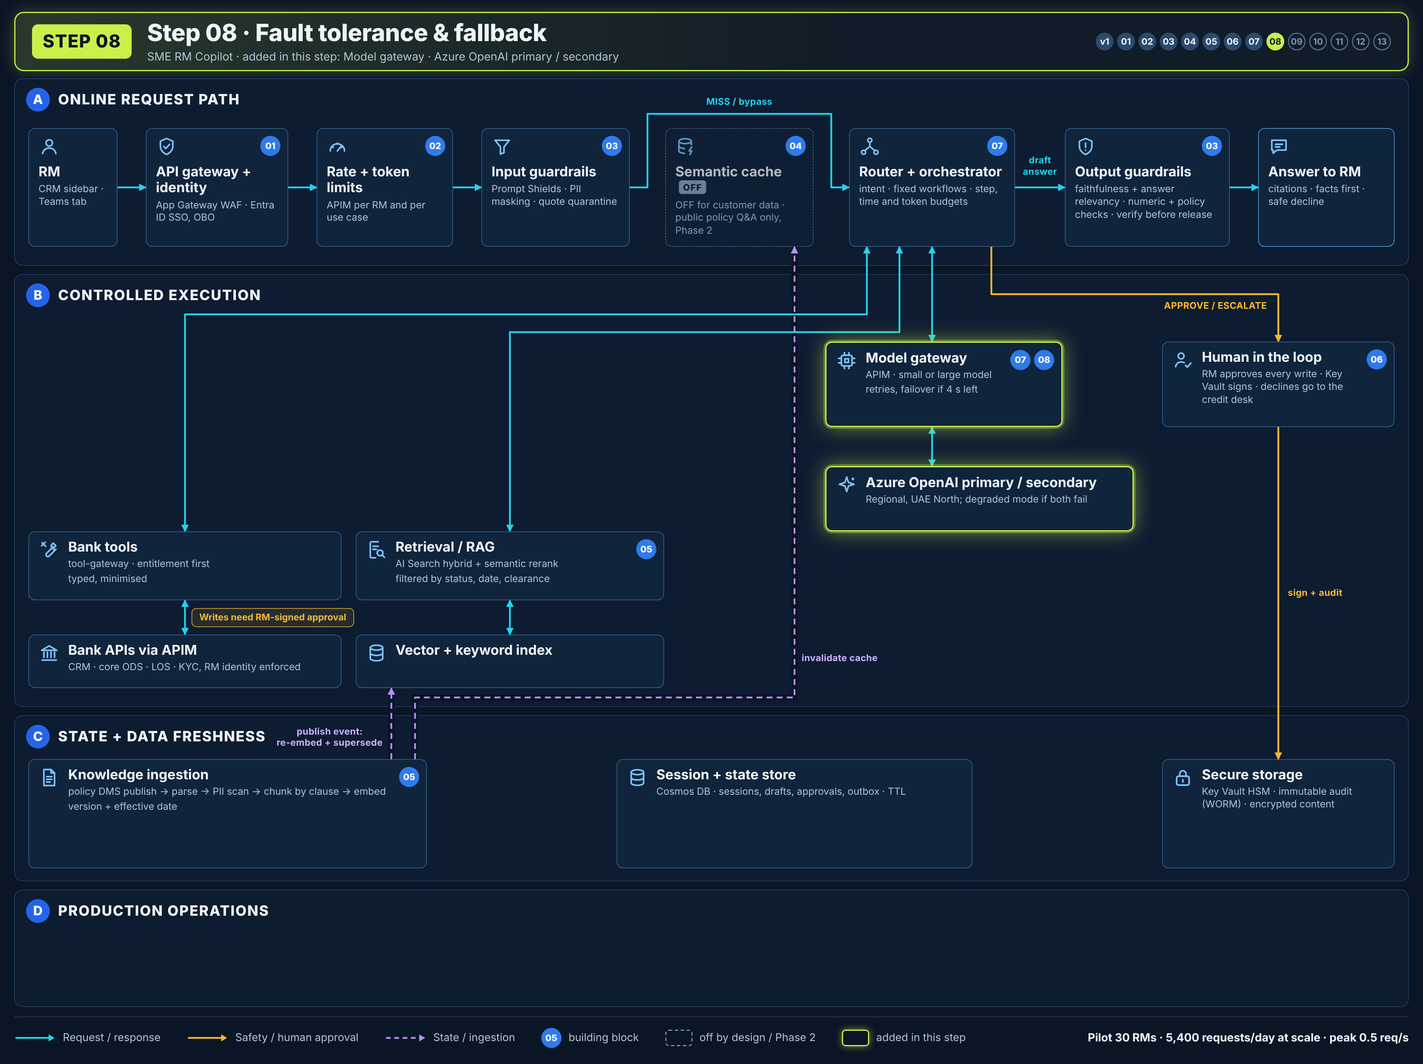
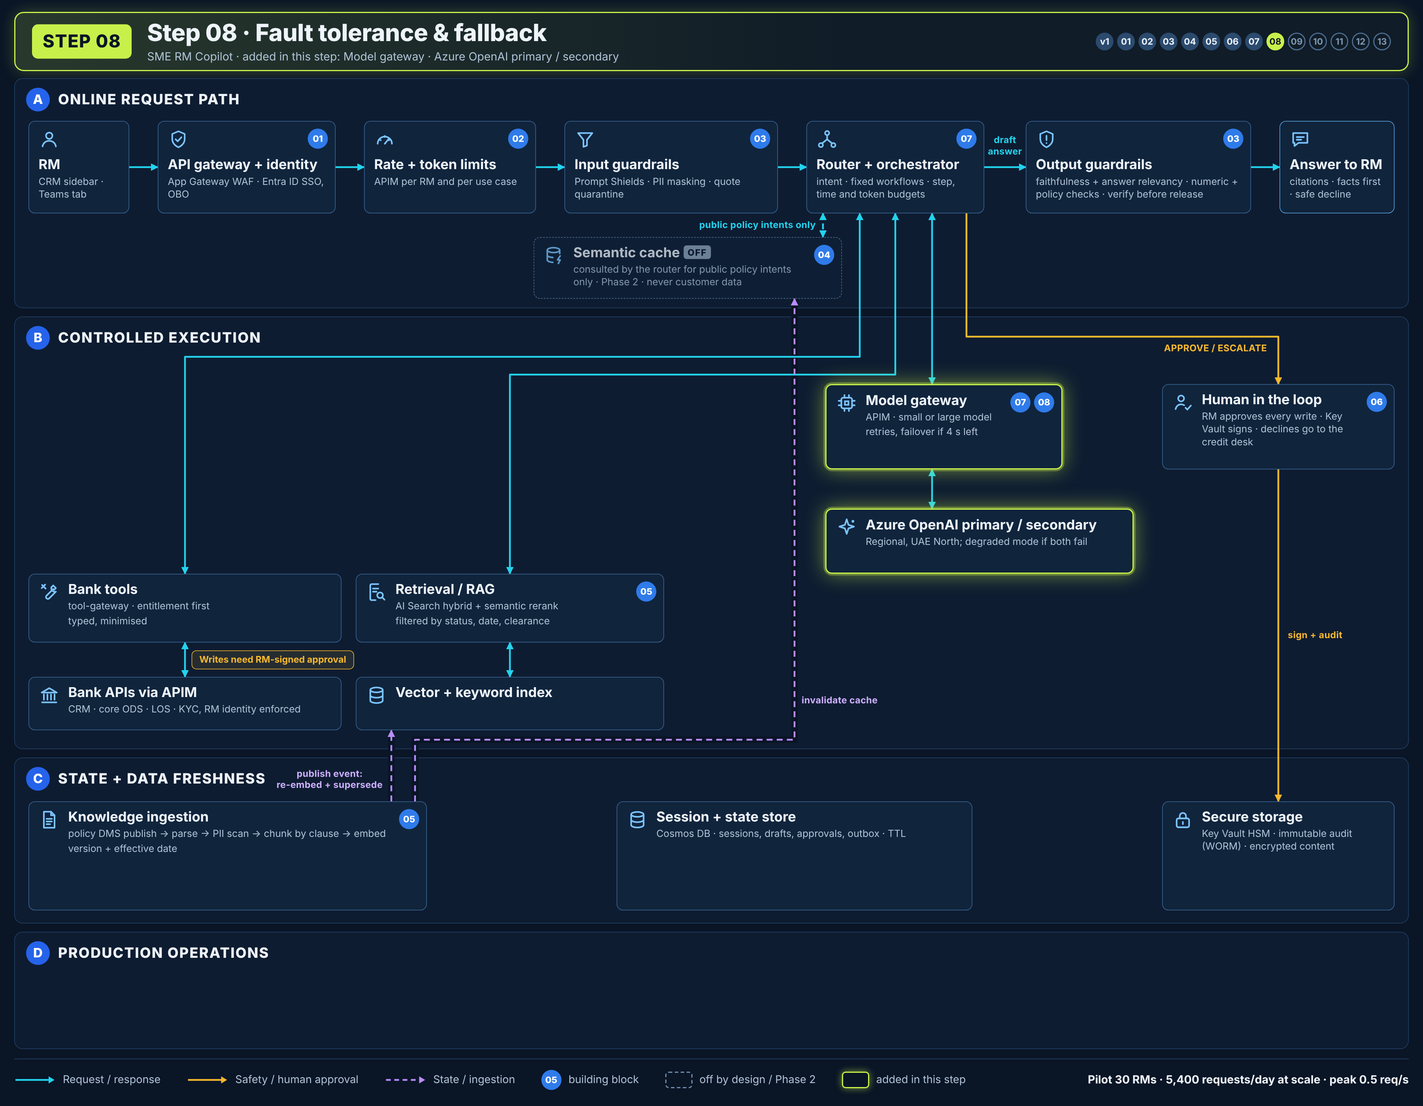
Diagram: supervisor directly after input guardrails; semantic cache beside the router for public policy intents only
Claude-Session: https://claude.ai/code/session_017mnFTtgPUTPw2EMPKevzKD

diff --git a/docs/architecture/diagrams/system-design/complete-architecture.html b/docs/architecture/diagrams/system-design/complete-architecture.html
@@ -3,9 +3,9 @@
 <head>
 <meta charset="utf-8">
 <title>Complete architecture</title>
-<!-- SME RM Copilot (fictional, unbranded bank) on Azure UAE North, drawn in the four-lane "complete architecture"
-     format of an AI system design guide: A online request path, B controlled execution, C state + data freshness,
-     D production operations. Badge numbers on boxes are the guide's 11 building blocks plus two from plan v2.6:
+<!-- SME RM Copilot (fictional, unbranded bank) on Azure UAE North, drawn as a four-lane "complete architecture":
+     A online request path, B controlled execution, C state + data freshness,
+     D production operations. Badge numbers on boxes are 11 core building blocks plus two from plan v2.6:
      12 agent identity + MCP gateway (plan §3.7) and 13 memory (plan §3.8). Plan v2.7 (§3.9): block 11 is evaluation in
      four tiers (runtime gates incl. the pre-generation retrieval gate, online sampled RAGAS, scheduled, release gate).
      Every box, arrow, pill and label comes from the SPEC array below and carries a `step`:
@@ -23,7 +23,7 @@
 * { box-sizing: border-box; margin: 0; padding: 0; }
 html, body { background: var(--bg); }
 body { font-family: Inter, "Segoe UI", Arial, sans-serif; color: var(--ink); }
-#canvas { position: relative; width: 2400px; height: 1794px; background: var(--canvas); overflow: hidden; }
+#canvas { position: relative; width: 2400px; height: 1866px; background: var(--canvas); overflow: hidden; }
 
 /* header (complete view) */
 #hdr { position: absolute; left: 24px; top: 22px; width: 2352px; height: 96px; }
@@ -95,7 +95,7 @@ body { font-family: Inter, "Segoe UI", Arial, sans-serif; color: var(--ink); }
 svg#wires { position: absolute; left: 0; top: 0; pointer-events: none; }
 
 /* legend */
-#legend { position: absolute; left: 24px; top: 1714px; width: 2352px; height: 64px; display: flex; align-items: center; gap: 44px; font-size: 18px; color: var(--muted); border-top: 1.5px solid var(--lane-line); padding-top: 6px; }
+#legend { position: absolute; left: 24px; top: 1786px; width: 2352px; height: 64px; display: flex; align-items: center; gap: 44px; font-size: 18px; color: var(--muted); border-top: 1.5px solid var(--lane-line); padding-top: 6px; }
 #legend .it { display: flex; align-items: center; gap: 12px; white-space: nowrap; }
 #legend .dashbox { width: 46px; height: 28px; border: 2px dashed #6F8DAE; border-radius: 6px; }
 #legend .hibox { width: 46px; height: 28px; border: 2.5px solid var(--hi); border-radius: 6px; box-shadow: 0 0 12px rgba(200,240,74,.6); }
@@ -159,31 +159,34 @@ svg#wires { position: absolute; left: 0; top: 0; pointer-events: none; }
 
 <script>
 // ---------- geometry (one place) ----------
-const W = 2400, H = 1794, LAST = 13;
+const W = 2400, H = 1866, LAST = 13;
+const SH0 = 72;                                        // lanes B..D sit this much lower to give lane A room for the cache side box
 const LANES = [
-  { k: 'A', name: 'ONLINE REQUEST PATH',     y: 132, h: 316 },
-  { k: 'B', name: 'CONTROLLED EXECUTION',    y: 462, h: 730 },
-  { k: 'C', name: 'STATE + DATA FRESHNESS',  y: 1206, h: 280 },
-  { k: 'D', name: 'PRODUCTION OPERATIONS',   y: 1500, h: 198 },
+  { k: 'A', name: 'ONLINE REQUEST PATH',     y: 132, h: 316 + SH0 },
+  { k: 'B', name: 'CONTROLLED EXECUTION',    y: 462 + SH0, h: 730 },
+  { k: 'C', name: 'STATE + DATA FRESHNESS',  y: 1206 + SH0, h: 280 },
+  { k: 'D', name: 'PRODUCTION OPERATIONS',   y: 1500 + SH0, h: 198 },
 ];
-const AY = 216, AH = 200, AM = AY + AH / 2;          // lane A boxes, arrow height
-const BYP = AY - 24;                                   // cache bypass line
-const F1 = 496;                                        // approve / escalate bus (right of the lane B heading)
-const BUS = 544;                                       // supervisor hand-off bus (below the lane B heading)
-const VB1 = 530, VB2 = 560;                            // v1 .. step 11: router -> bank tools / RAG buses (above the model gateway)
-const BY = 576, BH = 144;                              // model gateway, human in the loop
-const OY = 786, OH = 110;                              // Azure OpenAI
-const AGY = 572, AGH = 108;                            // specialist agents row (step 12)
-const MGY = 760, MGH = 84;                             // MCP gateway (step 12)
-const SY = 896, SH = 116;                              // MCP servers row (step 12); v1 RAG + tools before that
-const LY = 1070, LH = 90;                              // index + bank APIs row
-const YINV = 1176;                                     // cache invalidate line, under the lane B boxes
-const CY = 1280, CH = 184;                             // lane C boxes
-const DY = 1572, DH = 104;                             // lane D boxes
+const AY = 204, AH = 156, AM = AY + AH / 2;          // lane A main-path boxes, arrow height
+const KY = AY + AH + 40, KH = 104;                     // semantic cache side box, below the router (step 4)
+const F1 = 496 + SH0;                                  // approve / escalate bus (right of the lane B heading)
+const BUS = 544 + SH0;                                 // supervisor hand-off bus (below the lane B heading)
+const VB1 = 530 + SH0, VB2 = 560 + SH0;                // v1 .. step 11: router -> bank tools / RAG buses (above the model gateway)
+const BY = 576 + SH0, BH = 144;                        // model gateway, human in the loop
+const OY = 786 + SH0, OH = 110;                        // Azure OpenAI
+const AGY = 572 + SH0, AGH = 108;                      // specialist agents row (step 12)
+const MGY = 760 + SH0, MGH = 84;                       // MCP gateway (step 12)
+const SY = 896 + SH0, SH = 116;                        // MCP servers row (step 12); v1 RAG + tools before that
+const LY = 1070 + SH0, LH = 90;                        // index + bank APIs row
+const YINV = 1176 + SH0;                               // cache invalidate line, under the lane B boxes
+const CY = 1280 + SH0, CH = 184;                       // lane C boxes
+const DY = 1572 + SH0, DH = 104;                       // lane D boxes
 const XINV = 1340;                                     // cache invalidate line (gap between tools column and model column)
-// lane A x positions
-const xa = { rm: [48, 150], gw: [246, 240], rate: [534, 230], inp: [812, 250], cache: [1122, 250], rt: [1432, 280], out: [1796, 278], ans: [2122, 230] };
+// lane A x positions (main path: RM -> gateway -> limits -> input guardrails -> router -> output guardrails -> answer)
+const xa = { rm: [48, 170], gw: [266, 300], rate: [614, 290], inp: [952, 360], rt: [1360, 300], out: [1730, 380], ans: [2158, 194], cache: [900, 520] };
 const R = k => xa[k][0] + xa[k][1];   // right edge
+// router bottom exits: cache link, hand-off bus / v1 tools bus, v1 RAG bus, model gateway, approve / escalate
+const XK = 1388, XH = 1450, XV2 = 1510, XM = 1572, XAPP = 1630;
 // step 12: agents, MCP gateway and MCP servers (x, w); step 13: memory group
 const AG = { brief: [48, 404], policy: [477, 404], follow: [906, 404] };
 const AC = k => AG[k][0] + AG[k][1] / 2;
@@ -194,44 +197,45 @@ const MBW = 223, MBG = 10, MBX = MEMX + 12;            // memory sub-boxes
 const mbx = i => MBX + i * (MBW + MBG);
 const XMEM = 1270;                                     // memory server -> episodic memory
 const RGATE = 'Retrieval gate: chunks ≥ threshold\nelse decline (no model call)', RGW = 300;   // tier-1 runtime eval (plan §3.9)
-const XSMP = 1940, YSMP = 1536;                        // step 11: 5% sampled answers, output guardrails -> evaluation
+const XSMP = 1940, YSMP = 1536 + SH0;                      // step 11: 5% sampled answers, output guardrails -> evaluation
 
 // ---------- the spec: every element carries `step` (0 = v1 prototype), optional `until` (replaced at that step) ----------
 const SPEC = [
   // lane A
-  { type: 'box', id: 'rm', step: 0, x: 48, y: AY, w: 150, h: AH, layout: 'col', icon: 'user', title: 'RM', lines: ['CRM sidebar · Teams tab'] },
-  { type: 'box', id: 'gw', step: 1, x: 246, y: AY, w: 240, h: AH, layout: 'col', icon: 'shield', badges: ['01'], title: 'API gateway + identity', lines: ['App Gateway WAF · Entra ID SSO, OBO'] },
-  { type: 'box', id: 'rate', step: 2, x: 534, y: AY, w: 230, h: AH, layout: 'col', icon: 'gauge', badges: ['02'], title: 'Rate + token limits', lines: ['APIM per RM and per use case'] },
-  { type: 'box', id: 'inp', step: 3, x: 812, y: AY, w: 250, h: AH, layout: 'col', icon: 'filter', badges: ['03'], title: 'Input guardrails', lines: ['Prompt Shields · PII masking · quote quarantine'] },
-  { type: 'box', id: 'cache', step: 4, x: 1122, y: AY, w: 250, h: AH, layout: 'col', icon: 'cache', badges: ['04'], dim: true, title: 'Semantic cache', off: true, lines: ['OFF for customer data · public policy Q&A only, Phase 2'] },
-  { type: 'box', id: 'rt', step: 0, until: 7, x: 1432, y: AY, w: 280, h: AH, layout: 'col', icon: 'router', title: 'Router + orchestrator', lines: ['intent · fixed workflows'] },
-  { type: 'box', id: 'rt', step: 7, until: 12, x: 1432, y: AY, w: 280, h: AH, layout: 'col', icon: 'router', badges: ['07'], title: 'Router + orchestrator', lines: ['intent · fixed workflows · step, time and token budgets'] },
-  { type: 'box', id: 'rt', step: 12, x: 1432, y: AY, w: 280, h: AH, layout: 'col', icon: 'router', badges: ['07'], title: 'Supervisor agent', lines: ['intent · picks one specialist · budgets · ≤ 2 hops'] },
-  { type: 'box', id: 'out', step: 3, x: 1796, y: AY, w: 278, h: AH, layout: 'col', icon: 'guard', badges: ['03'], title: 'Output guardrails', lines: ['faithfulness + answer relevancy · numeric + policy checks · verify before release'] },
-  { type: 'box', id: 'ans', step: 0, x: 2122, y: AY, w: 230, h: AH, layout: 'col', icon: 'chat', ans: true, title: 'Answer to RM', lines: ['citations · facts first · safe decline'] },
+  { type: 'box', id: 'rm', step: 0, x: xa.rm[0], y: AY, w: xa.rm[1], h: AH, layout: 'col', icon: 'user', title: 'RM', lines: ['CRM sidebar · Teams tab'] },
+  { type: 'box', id: 'gw', step: 1, x: xa.gw[0], y: AY, w: xa.gw[1], h: AH, layout: 'col', icon: 'shield', badges: ['01'], title: 'API gateway + identity', lines: ['App Gateway WAF · Entra ID SSO, OBO'] },
+  { type: 'box', id: 'rate', step: 2, x: xa.rate[0], y: AY, w: xa.rate[1], h: AH, layout: 'col', icon: 'gauge', badges: ['02'], title: 'Rate + token limits', lines: ['APIM per RM and per use case'] },
+  { type: 'box', id: 'inp', step: 3, x: xa.inp[0], y: AY, w: xa.inp[1], h: AH, layout: 'col', icon: 'filter', badges: ['03'], title: 'Input guardrails', lines: ['Prompt Shields · PII masking · quote quarantine'] },
+  { type: 'box', id: 'rt', step: 0, until: 7, x: xa.rt[0], y: AY, w: xa.rt[1], h: AH, layout: 'col', icon: 'router', title: 'Router + orchestrator', lines: ['intent · fixed workflows'] },
+  { type: 'box', id: 'rt', step: 7, until: 12, x: xa.rt[0], y: AY, w: xa.rt[1], h: AH, layout: 'col', icon: 'router', badges: ['07'], title: 'Router + orchestrator', lines: ['intent · fixed workflows · step, time and token budgets'] },
+  { type: 'box', id: 'rt', step: 12, x: xa.rt[0], y: AY, w: xa.rt[1], h: AH, layout: 'col', icon: 'router', badges: ['07'], title: 'Supervisor agent', lines: ['intent · picks one specialist · budgets · ≤ 2 hops'] },
+  { type: 'box', id: 'out', step: 3, x: xa.out[0], y: AY, w: xa.out[1], h: AH, layout: 'col', icon: 'guard', badges: ['03'], title: 'Output guardrails', lines: ['faithfulness + answer relevancy · numeric + policy checks · verify before release'] },
+  { type: 'box', id: 'ans', step: 0, x: xa.ans[0], y: AY, w: xa.ans[1], h: AH, layout: 'col', icon: 'chat', ans: true, title: 'Answer to RM', lines: ['citations · facts first · safe decline'] },
+  // semantic cache: off the main path, a side box the router consults (public policy intents only, off in the pilot)
+  { type: 'box', id: 'cache', step: 4, x: xa.cache[0], y: KY, w: xa.cache[1], h: KH, layout: 'row', icon: 'cache', badges: ['04'], dim: true, title: 'Semantic cache', off: true, lines: ['consulted by the router for public policy intents only · Phase 2 · never customer data'] },
+  { type: 'arrow', step: 4, kind: 'cyan', dash: true, both: true, pts: [[XK, AY + AH], [XK, KY]] },
+  { type: 'label', step: 4, kind: 'cyan', x: XK - 12, y: (AY + AH + KY) / 2, text: 'public policy intents only', align: 'right' },
 
-  { type: 'arrow', step: 0, until: 1, kind: 'cyan', pts: [[R('rm'), AM], [1432, AM]] },
-  { type: 'arrow', step: 1, kind: 'cyan', pts: [[R('rm'), AM], [246, AM]] },
-  { type: 'arrow', step: 1, until: 2, kind: 'cyan', pts: [[R('gw'), AM], [1432, AM]] },
-  { type: 'arrow', step: 2, kind: 'cyan', pts: [[R('gw'), AM], [534, AM]] },
-  { type: 'arrow', step: 2, until: 3, kind: 'cyan', pts: [[R('rate'), AM], [1432, AM]] },
-  { type: 'arrow', step: 3, kind: 'cyan', pts: [[R('rate'), AM], [812, AM]] },
-  { type: 'arrow', step: 3, until: 4, kind: 'cyan', pts: [[R('inp'), AM], [1432, AM]] },
-  { type: 'arrow', step: 4, kind: 'cyan', pts: [[R('inp'), AM], [1092, AM], [1092, BYP], [1402, BYP], [1402, AM], [1432, AM]] },
-  { type: 'label', step: 4, kind: 'cyan', x: 1247, y: BYP - 20, text: 'MISS / bypass' },
-  { type: 'arrow', step: 0, until: 3, kind: 'cyan', pts: [[R('rt'), AM], [2122, AM]] },
-  { type: 'label', step: 0, until: 3, kind: 'cyan', x: 1917, y: AM - 22, text: 'answer (unchecked)' },
-  { type: 'arrow', step: 3, kind: 'cyan', pts: [[R('rt'), AM], [1796, AM]] },
-  { type: 'label', step: 3, kind: 'cyan', x: 1754, y: AM - 36, text: 'draft\nanswer' },
-  { type: 'arrow', step: 3, kind: 'cyan', pts: [[R('out'), AM], [2122, AM]] },
+  { type: 'arrow', step: 0, until: 1, kind: 'cyan', pts: [[R('rm'), AM], [xa.rt[0], AM]] },
+  { type: 'arrow', step: 1, kind: 'cyan', pts: [[R('rm'), AM], [xa.gw[0], AM]] },
+  { type: 'arrow', step: 1, until: 2, kind: 'cyan', pts: [[R('gw'), AM], [xa.rt[0], AM]] },
+  { type: 'arrow', step: 2, kind: 'cyan', pts: [[R('gw'), AM], [xa.rate[0], AM]] },
+  { type: 'arrow', step: 2, until: 3, kind: 'cyan', pts: [[R('rate'), AM], [xa.rt[0], AM]] },
+  { type: 'arrow', step: 3, kind: 'cyan', pts: [[R('rate'), AM], [xa.inp[0], AM]] },
+  { type: 'arrow', step: 3, kind: 'cyan', pts: [[R('inp'), AM], [xa.rt[0], AM]] },
+  { type: 'arrow', step: 0, until: 3, kind: 'cyan', pts: [[R('rt'), AM], [xa.ans[0], AM]] },
+  { type: 'label', step: 0, until: 3, kind: 'cyan', x: (R('rt') + xa.ans[0]) / 2, y: AM - 22, text: 'answer (unchecked)' },
+  { type: 'arrow', step: 3, kind: 'cyan', pts: [[R('rt'), AM], [xa.out[0], AM]] },
+  { type: 'label', step: 3, kind: 'cyan', x: (R('rt') + xa.out[0]) / 2, y: AM - 36, text: 'draft\nanswer' },
+  { type: 'arrow', step: 3, kind: 'cyan', pts: [[R('out'), AM], [xa.ans[0], AM]] },
 
   // lane B, v1 .. step 11: router -> retrieval and bank tools directly (replaced at step 12)
   { type: 'box', id: 'tools', step: 0, until: 1, x: 48, y: SY, w: 528, h: SH, layout: 'row', icon: 'tool', title: 'Bank tools', lines: ['tool-gateway · typed, minimised'] },
   { type: 'box', id: 'tools', step: 1, until: 12, x: 48, y: SY, w: 528, h: SH, layout: 'row', icon: 'tool', title: 'Bank tools', lines: ['tool-gateway · entitlement first', 'typed, minimised'] },
   { type: 'box', id: 'rag', step: 0, until: 5, x: 600, y: SY, w: 520, h: SH, layout: 'row', icon: 'search', title: 'Retrieval / RAG', lines: ['AI Search hybrid + semantic rerank'] },
   { type: 'box', id: 'rag', step: 5, until: 12, x: 600, y: SY, w: 520, h: SH, layout: 'row', icon: 'search', badges: ['05'], title: 'Retrieval / RAG', lines: ['AI Search hybrid + semantic rerank', 'filtered by status, date, clearance'] },
-  { type: 'arrow', step: 0, until: 12, kind: 'cyan', both: true, pts: [[1462, AY + AH], [1462, VB1], [312, VB1], [312, SY]] },
-  { type: 'arrow', step: 0, until: 12, kind: 'cyan', both: true, pts: [[1517, AY + AH], [1517, VB2], [860, VB2], [860, SY]] },
+  { type: 'arrow', step: 0, until: 12, kind: 'cyan', both: true, pts: [[XH, AY + AH], [XH, VB1], [312, VB1], [312, SY]] },
+  { type: 'arrow', step: 0, until: 12, kind: 'cyan', both: true, pts: [[XV2, AY + AH], [XV2, VB2], [860, VB2], [860, SY]] },
   { type: 'arrow', step: 0, until: 12, kind: 'cyan', both: true, pts: [[312, SY + SH], [312, LY]] },
   { type: 'arrow', step: 0, until: 12, kind: 'cyan', both: true, pts: [[860, SY + SH], [860, LY]] },
   { type: 'pill', step: 11, until: 12, style: 'gate', x: RGW / 2 + 872, y: SY - 50, text: RGATE },
@@ -247,13 +251,13 @@ const SPEC = [
   { type: 'box', id: 'llm', step: 8, x: 1392, y: OY, w: 520, h: OH, layout: 'row', icon: 'spark', title: 'Azure OpenAI primary / secondary', lines: ['Regional, UAE North; degraded mode if both fail'] },
   { type: 'box', id: 'hitl', step: 6, x: 1960, y: BY, w: 392, h: BH, layout: 'row', icon: 'human', badges: ['06'], title: 'Human in the loop', lines: ['RM approves every write · Key Vault signs · declines go to the credit desk'] },
 
-  { type: 'arrow', step: 0, until: 7, kind: 'cyan', both: true, pts: [[1572, AY + AH], [1572, OY]] },
-  { type: 'arrow', step: 7, kind: 'cyan', both: true, pts: [[1572, AY + AH], [1572, BY]] },
-  { type: 'arrow', step: 7, kind: 'cyan', both: true, pts: [[1572, BY + BH], [1572, OY]] },
-  { type: 'arrow', step: 6, kind: 'amber', pts: [[1672, AY + AH], [1672, F1], [2156, F1], [2156, BY]] },
+  { type: 'arrow', step: 0, until: 7, kind: 'cyan', both: true, pts: [[XM, AY + AH], [XM, OY]] },
+  { type: 'arrow', step: 7, kind: 'cyan', both: true, pts: [[XM, AY + AH], [XM, BY]] },
+  { type: 'arrow', step: 7, kind: 'cyan', both: true, pts: [[XM, BY + BH], [XM, OY]] },
+  { type: 'arrow', step: 6, kind: 'amber', pts: [[XAPP, AY + AH], [XAPP, F1], [2156, F1], [2156, BY]] },
   { type: 'label', step: 6, kind: 'amber', x: 2050, y: F1 + 20, text: 'APPROVE / ESCALATE' },
   { type: 'arrow', step: 6, kind: 'amber', pts: [[2156, BY + BH], [2156, CY]] },
-  { type: 'label', step: 6, kind: 'amber', x: 2172, y: 1000, text: 'sign + audit', align: 'left' },
+  { type: 'label', step: 6, kind: 'amber', x: 2172, y: 1000 + SH0, text: 'sign + audit', align: 'left' },
 
   // lane B, step 12: supervisor -> one specialist agent -> MCP gateway (APIM) -> MCP servers (tool-gateway)
   { type: 'box', id: 'brief', step: 12, x: AG.brief[0], y: AGY, w: AG.brief[1], h: AGH, layout: 'row', icon: 'agent', title: 'Brief agent', lines: ['UC1 customer brief · gen-large', 'tools: customer-data · memory'] },
@@ -265,7 +269,7 @@ const SPEC = [
   { type: 'box', id: 'ps', step: 12, x: SV.ps[0], y: SY, w: SV.ps[1], h: SH, layout: 'row', icon: 'search', badges: ['05'], title: 'policy-search', lines: ['AI Search hybrid + rerank', 'status · date · clearance'] },
   { type: 'box', id: 'mem', step: 12, x: SV.mem[0], y: SY, w: SV.mem[1], h: SH, layout: 'row', icon: 'db', title: 'memory', lines: ['episodic recall', 'own RM only'] },
 
-  ...['brief', 'policy', 'follow'].map(k => ({ type: 'arrow', step: 12, kind: 'cyan', both: true, pts: [[1462, AY + AH], [1462, BUS], [AC(k), BUS], [AC(k), AGY]] })),
+  ...['brief', 'policy', 'follow'].map(k => ({ type: 'arrow', step: 12, kind: 'cyan', both: true, pts: [[XH, AY + AH], [XH, BUS], [AC(k), BUS], [AC(k), AGY]] })),
   { type: 'label', step: 12, kind: 'cyan', x: 1000, y: BUS - 18, text: 'hands off to one specialist' },
   ...['brief', 'policy', 'follow'].map(k => ({ type: 'arrow', step: 12, kind: 'cyan', both: true, pts: [[AC(k), AGY + AGH], [AC(k), MGY]] })),
   { type: 'pill', step: 12, style: 'id', x: (AC('policy') + AC('follow')) / 2, y: (AGY + AGH + MGY) / 2, text: 'RM (OIDC/OBO) ∩ agent service principal\n∩ pod managed identity' },
@@ -285,9 +289,9 @@ const SPEC = [
   { type: 'box', id: 'sess', step: 0, until: 13, x: 1040, y: CY, w: 600, h: CH, layout: 'row', icon: 'db', title: 'Session + state store', lines: ['Cosmos DB · sessions, drafts, approvals, outbox · TTL'] },
   { type: 'box', id: 'sec', step: 6, x: 1960, y: CY, w: 392, h: CH, layout: 'row', icon: 'lock', title: 'Secure storage', lines: ['Key Vault HSM · immutable audit (WORM) · encrypted content'] },
   { type: 'arrow', step: 5, kind: 'violet', pts: [[660, CY], [660, LY + LH]] },
-  { type: 'label', step: 5, kind: 'violet', x: 556, y: 1243, text: 'publish event:\nre-embed + supersede' },
-  { type: 'arrow', step: 5, kind: 'violet', pts: [[700, CY], [700, YINV], [XINV, YINV], [XINV, AY + AH]] },
-  { type: 'label', step: 5, kind: 'violet', x: XINV + 12, y: 1110, text: 'invalidate cache', align: 'left' },
+  { type: 'label', step: 5, kind: 'violet', x: 556, y: CY - 37, text: 'publish event:\nre-embed + supersede' },
+  { type: 'arrow', step: 5, kind: 'violet', pts: [[700, CY], [700, YINV], [XINV, YINV], [XINV, KY + KH]] },
+  { type: 'label', step: 5, kind: 'violet', x: XINV + 12, y: 1110 + SH0, text: 'invalidate cache', align: 'left' },
 
   // lane C, step 13: memory (plan §3.8); semantic memory = the policy index, working memory = graph state in the request
   { type: 'group', id: 'memory', step: 13, x: MEMX, y: CY, w: MEMW, h: CH, icon: 'db', badges: ['13'], title: 'Memory', sub: 'Cosmos DB, encrypted · per RM, never across RMs' },
@@ -312,6 +316,7 @@ const BLOCKS = ['', 'Authentication & authorization', 'Rate limiting', 'Guardrai
   'Agent identity + MCP gateway', 'Memory'];
 // caption sub-line where the list of added elements would be too long
 const CAPSUB = {
+  4: 'SME RM Copilot · semantic cache, consulted by the router for public policy intents only · off in the pilot (Phase 2) · never customer data',
   12: 'SME RM Copilot · supervisor + brief, policy and follow-up agents · MCP gateway (APIM) · MCP servers · RM ∩ agent ∩ pod identity on every tool call',
   11: 'SME RM Copilot · evaluation in 4 tiers: retrieval gate before the model, faithfulness + relevancy after · online RAGAS 5% · nightly · release gate',
   13: 'SME RM Copilot · memory: checkpointer · session · episodic · procedural · profile (semantic = policy index)',
@@ -355,7 +360,7 @@ function renderStep(step) {
     if (isNew(a)) glow += `<path d="${d}" stroke="#C8F04A" stroke-width="12" stroke-opacity=".38" fill="none" stroke-linejoin="round"/>`;
     if (a.kind === 'violet') halo += `<path d="${d}" stroke="#0A1526" stroke-width="11" fill="none"/>`;
     lines += `<path class="wire" data-pts='${JSON.stringify(a.pts)}' d="${d}" stroke="${c}" stroke-width="3" fill="none" stroke-linejoin="round"` +
-      (a.kind === 'violet' ? ' stroke-dasharray="10 7"' : '') +
+      (a.kind === 'violet' || a.dash ? ' stroke-dasharray="10 7"' : '') +
       ` marker-end="url(#ah-${a.kind})"` + (a.both ? ` marker-start="url(#ah-${a.kind})"` : '') + '/>';
   }
   html += `<svg id="wires" width="${W}" height="${H}"><defs>${defs}<filter id="blur"><feGaussianBlur stdDeviation="3"/></filter></defs>` +
@@ -376,7 +381,7 @@ function renderStep(step) {
   // labels and pills (x,y = centre unless align left)
   for (const t of SPEC.filter(e => (e.type === 'label' || e.type === 'pill') && vis(e))) {
     const cls = (t.type === 'pill' ? 'pill' + (t.style ? ' ' + t.style : '') : 'lbl ' + t.kind) + (isNew(t) ? ' new' : '');
-    const tf = t.align === 'left' ? 'translate(0,-50%)' : 'translate(-50%,-50%)';
+    const tf = t.align === 'left' ? 'translate(0,-50%)' : t.align === 'right' ? 'translate(-100%,-50%)' : 'translate(-50%,-50%)';
     const txt = esc(t.text).replace('\n', '<br>');
     html += `<div class="${cls}" style="left:${t.x}px;top:${t.y}px;transform:${tf};text-align:center">${txt}</div>`;
   }

diff --git a/docs/architecture/diagrams/system-design/render.js b/docs/architecture/diagrams/system-design/render.js
@@ -1,4 +1,4 @@
-// Renders complete-architecture.html to complete-architecture.png (2400x1794 at 2x) and the build-up frames
+// Renders complete-architecture.html to complete-architecture.png (2400x1866 at 2x) and the build-up frames
 // step-00.png (v1 prototype) ... step-13.png (one per building block, at 1.5x; 12 = agent identity + MCP gateway,
 // 13 = memory, plan v2.6). Runs the page's layout check (box overlap, wires through boxes, labels on wires, text
 // overflow, fonts < 15 px, titles < 22 px, group framing, caption bar) for every frame and exits with code 1 if
@@ -8,7 +8,7 @@ const { chromium } = require('playwright');
 
 const html = 'file://' + path.join(__dirname, 'complete-architecture.html');
 const out = f => path.join(__dirname, f);
-const W = 2400, H = 1794, LAST = 13;
+const W = 2400, H = 1866, LAST = 13;
 
 async function shoot(browser, step, file, scale) {
   const page = await browser.newPage({ viewport: { width: W, height: H }, deviceScaleFactor: scale });
